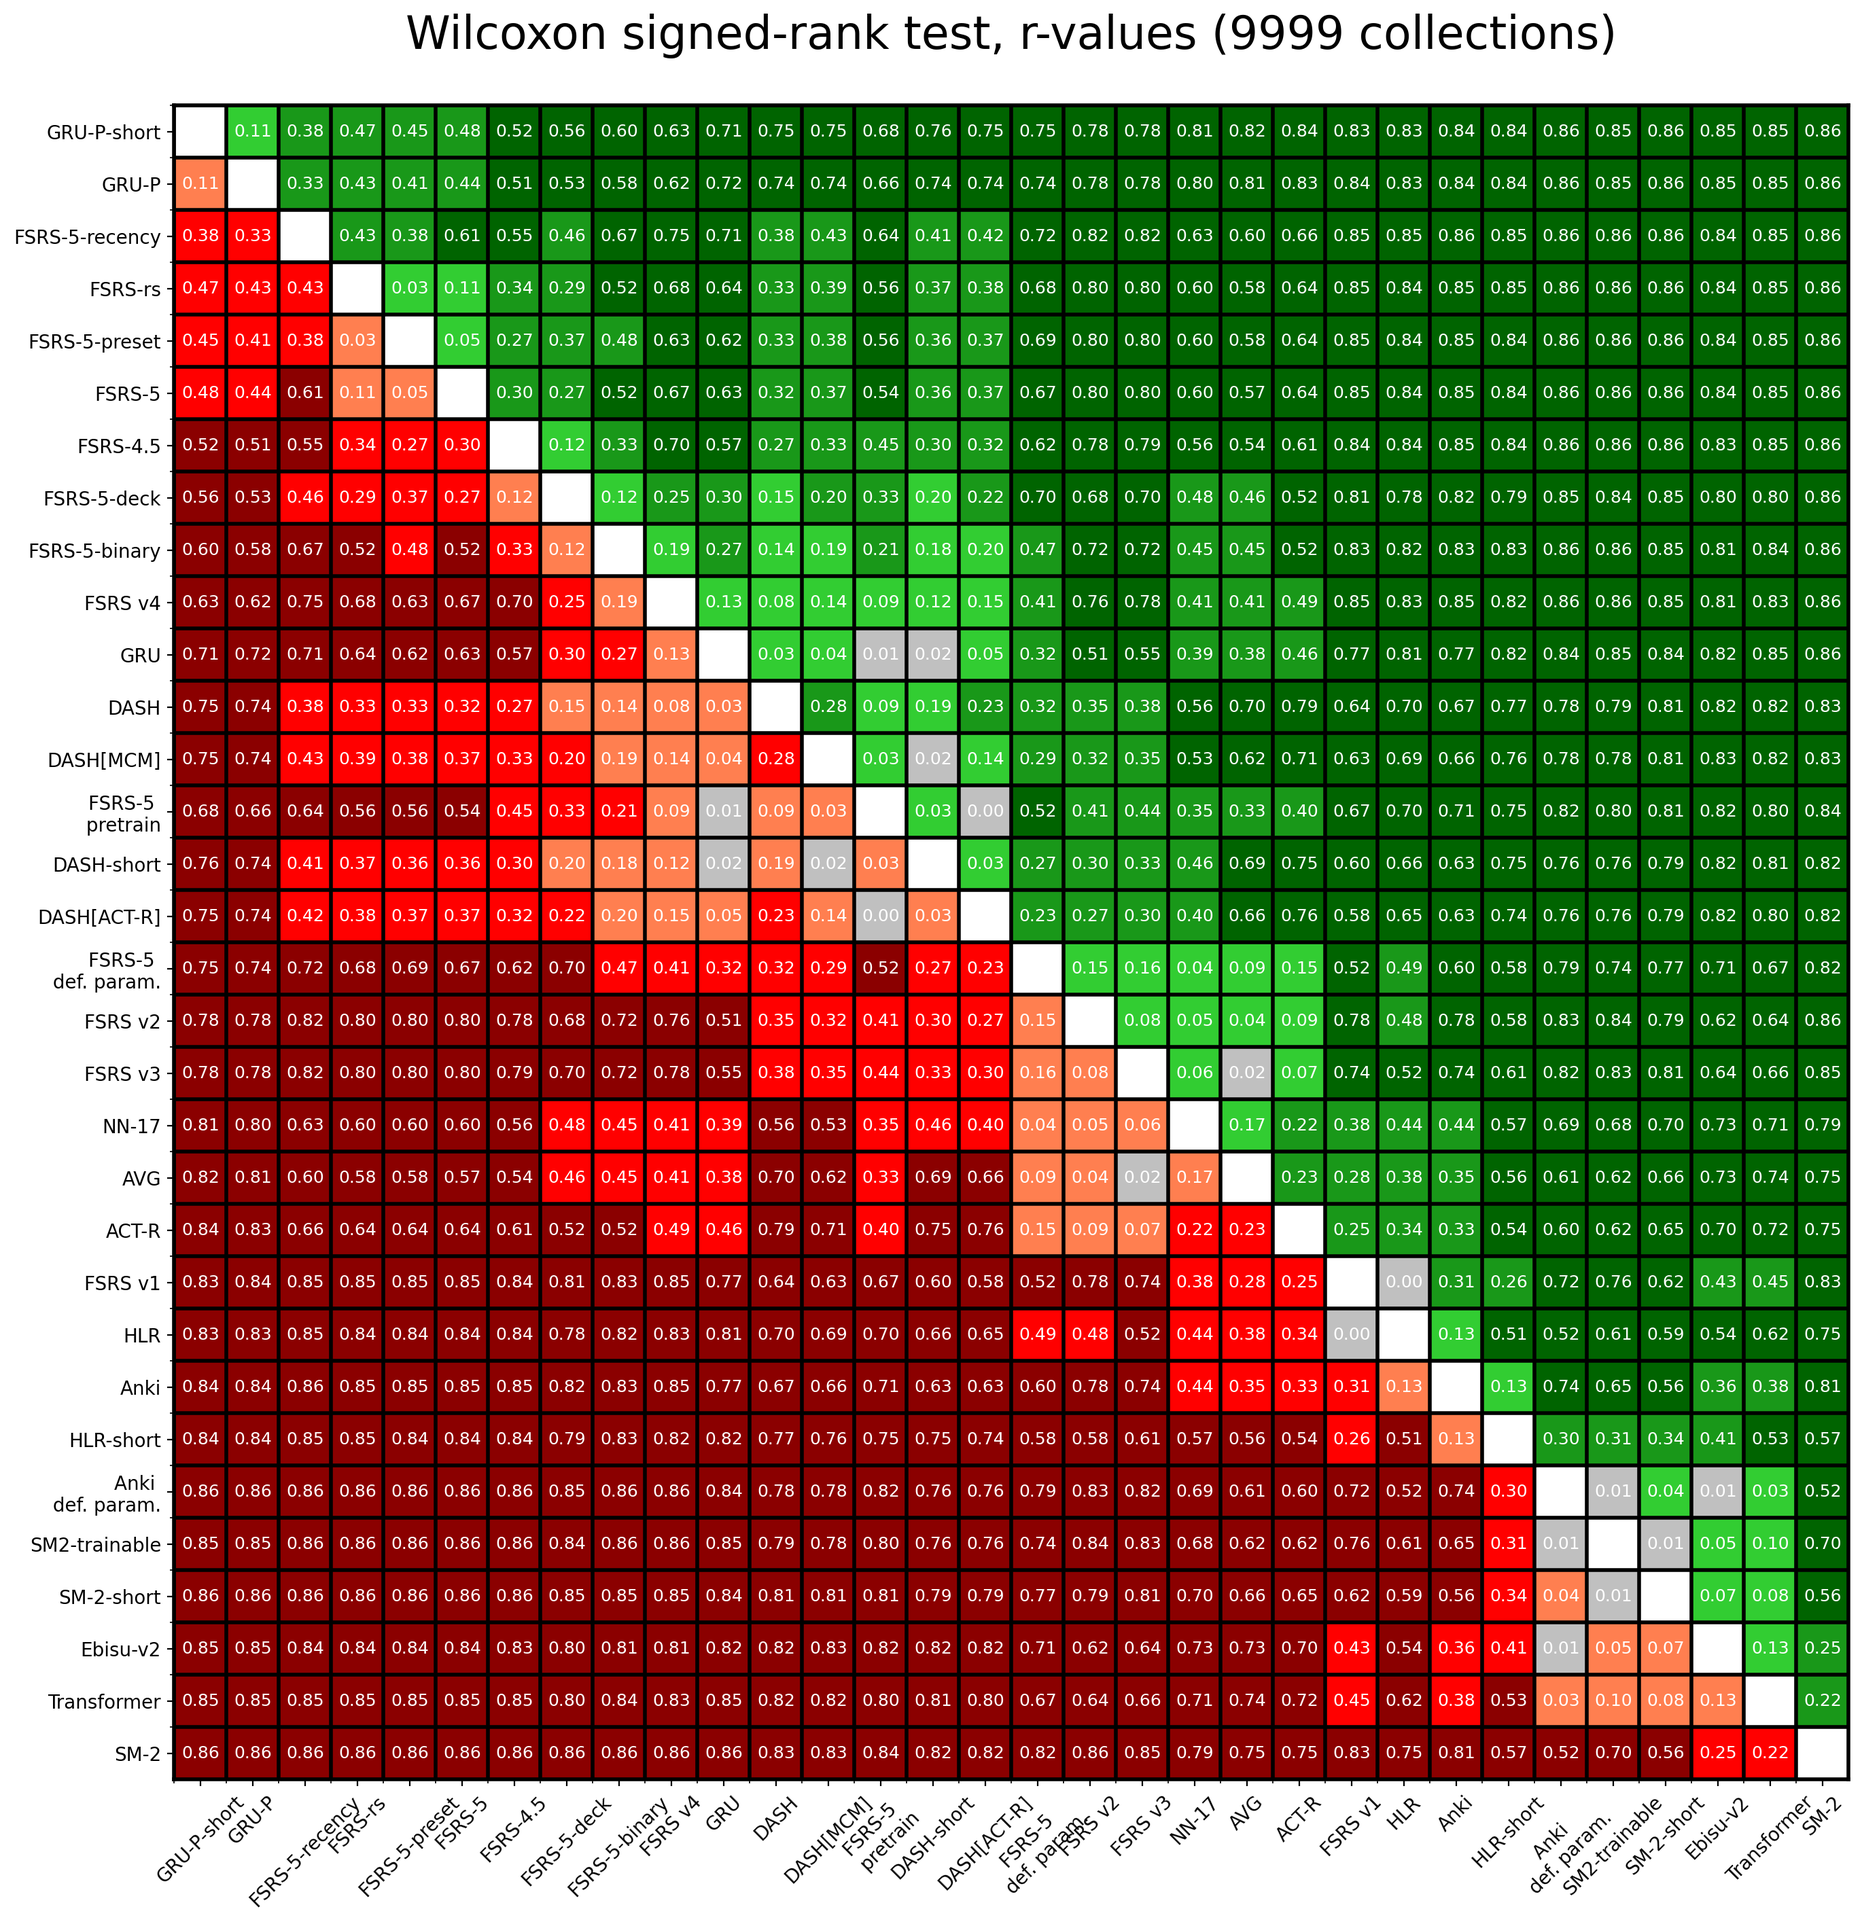
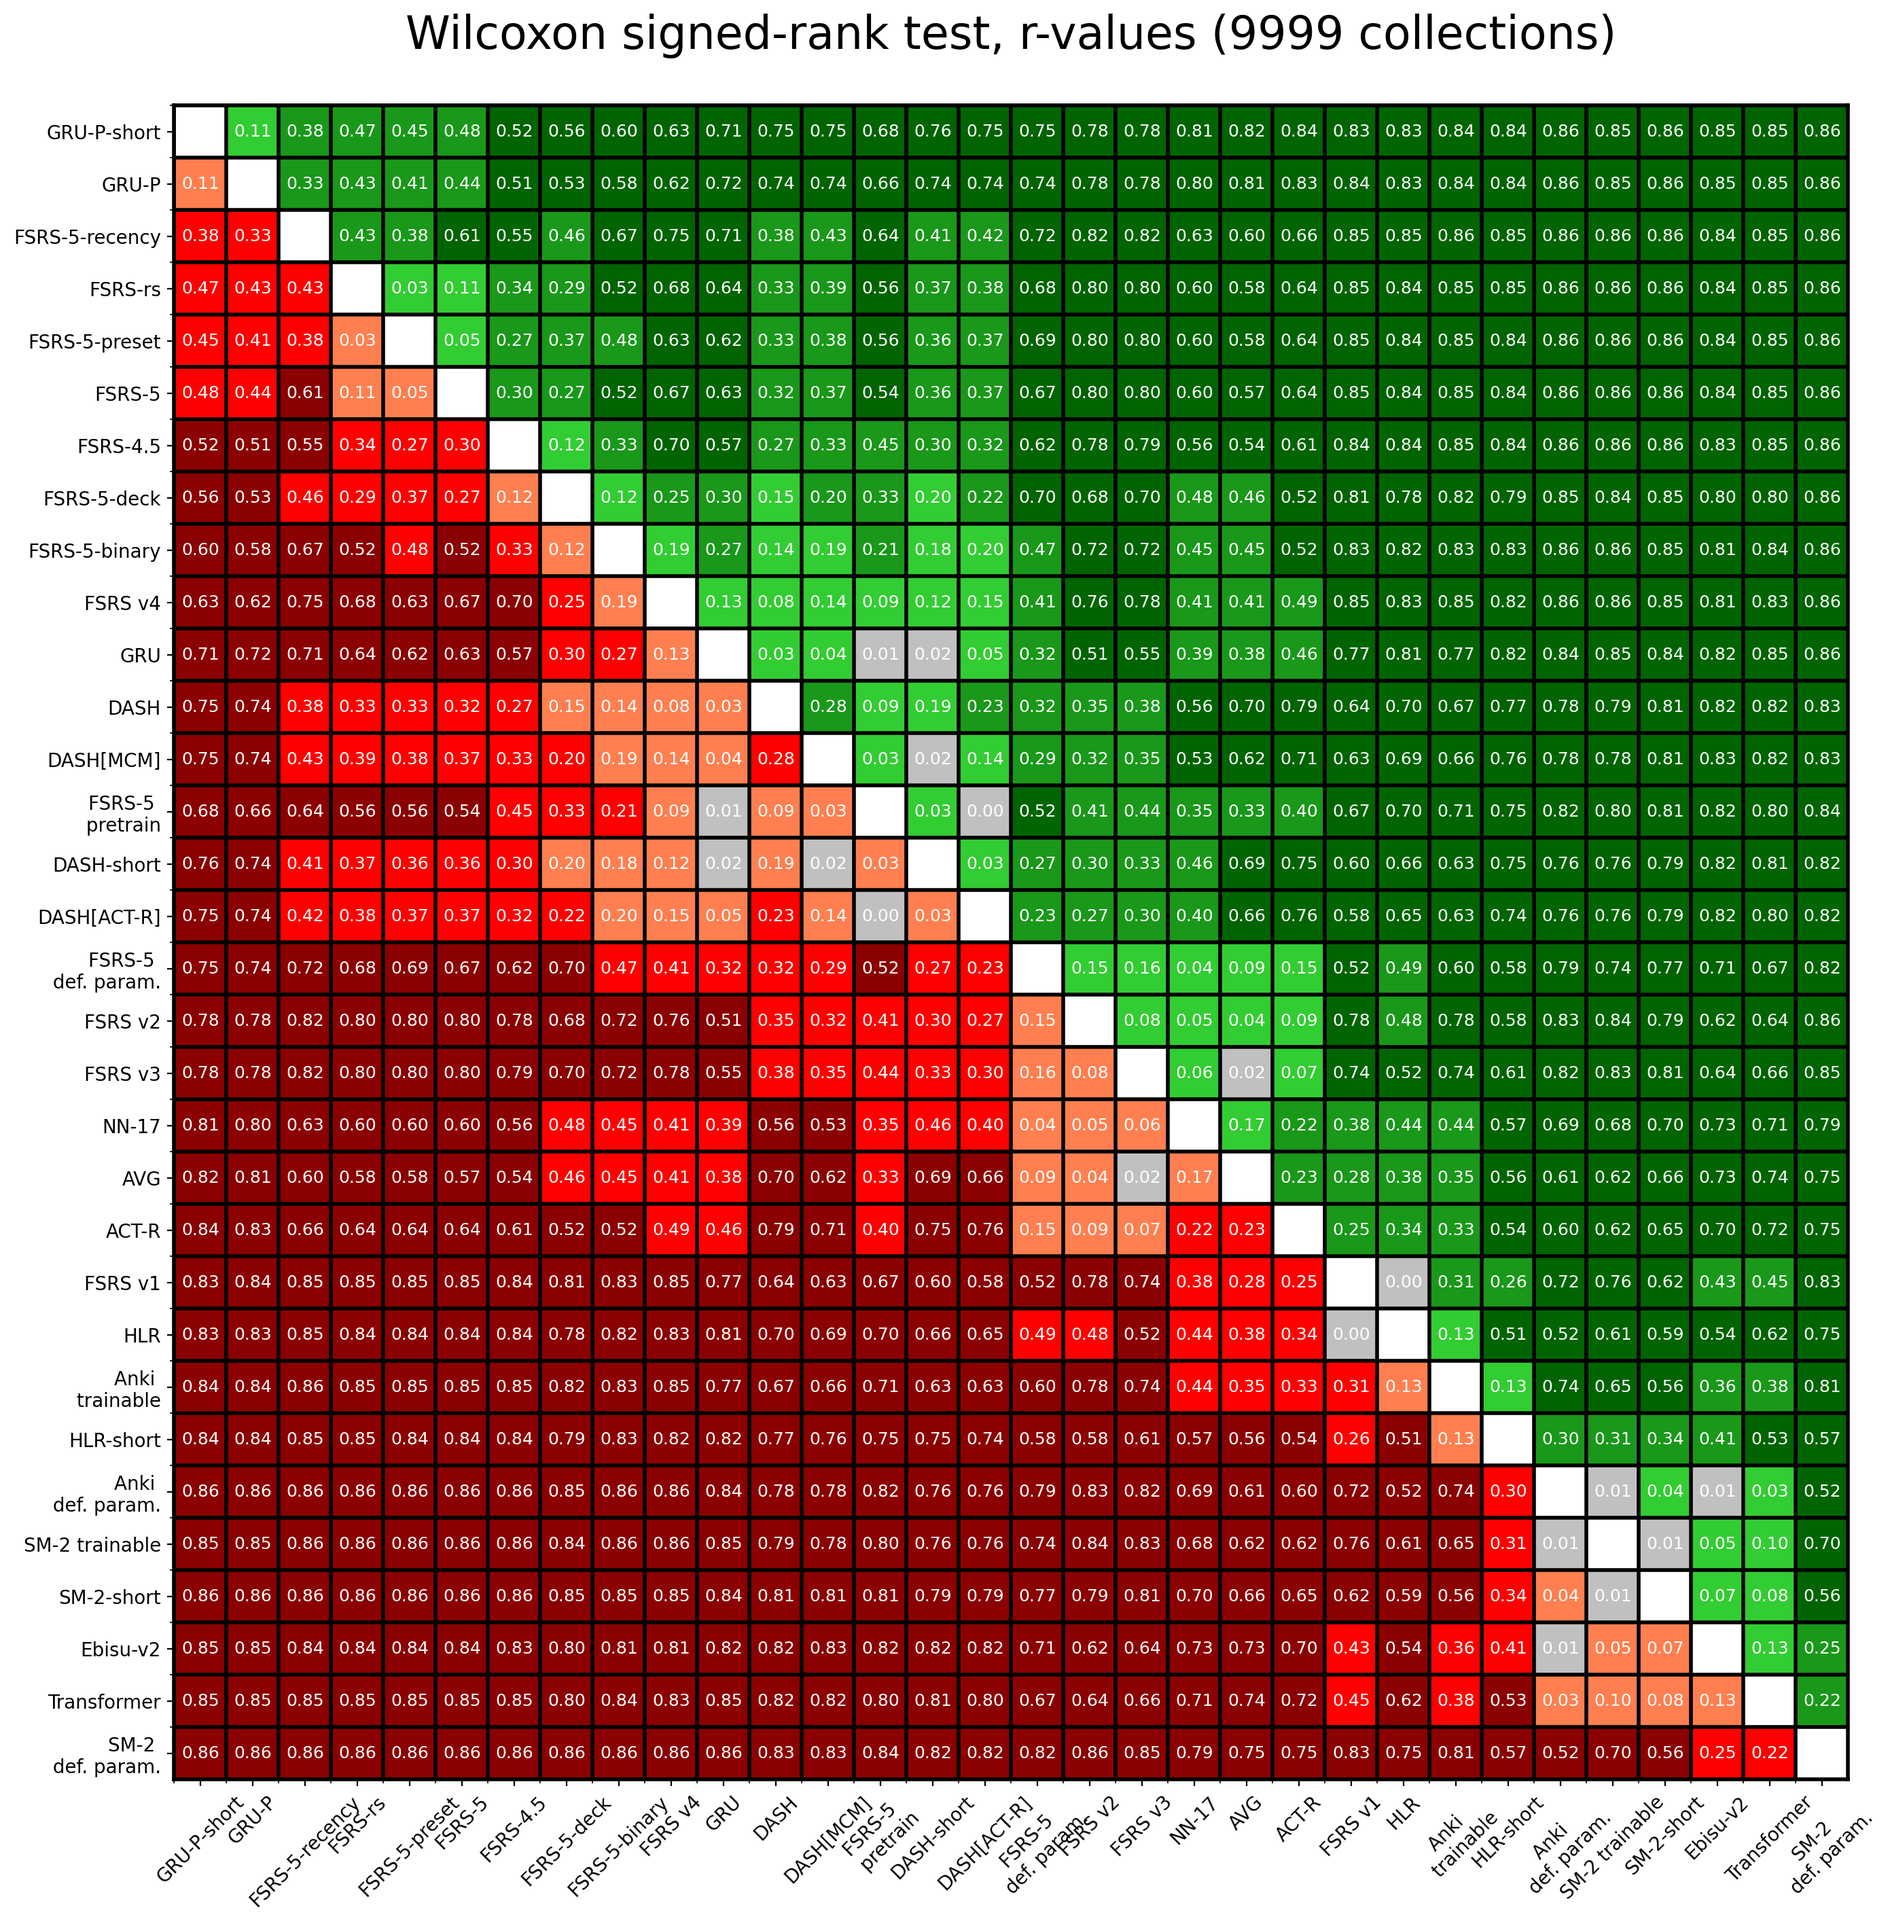
update plots

Changed region(s): [[0.031, 0.0311, 1.0, 0.9944], [0.2172, 0.0, 0.8686, 0.0311]]

diff --git a/significance_table.py b/significance_table.py
@@ -193,21 +193,25 @@ if __name__ == "__main__":
     # small changes to labels
     index_5_dry_run = models.index("FSRS-5-dry-run")
     index_anki_dry_run = models.index("Anki-dry-run")
+    index_anki_train = models.index("Anki")
     index_5_pretrain = models.index("FSRS-5-pretrain")
     index_v4 = models.index("FSRSv4")
     index_v3 = models.index("FSRSv3")
     index_v2 = models.index("FSRSv2")
     index_v1 = models.index("FSRSv1")
     index_sm2 = models.index("SM2")
+    index_sm2_train = models.index("SM2-trainable")
     index_sm2_short = models.index("SM2-short")
     models[index_5_dry_run] = "FSRS-5 \n def. param."
     models[index_anki_dry_run] = "Anki \n def. param."
+    models[index_anki_train] = "Anki \n trainable"
     models[index_5_pretrain] = "FSRS-5 \n pretrain"
     models[index_v4] = "FSRS v4"
     models[index_v3] = "FSRS v3"
     models[index_v2] = "FSRS v2"
     models[index_v1] = "FSRS v1"
-    models[index_sm2] = "SM-2"
+    models[index_sm2] = "SM-2 \n def. param."
+    models[index_sm2_train] = "SM-2 trainable"
     models[index_sm2_short] = "SM-2-short"
 
     fig, ax = plt.subplots(figsize=(16, 16), dpi=200)
